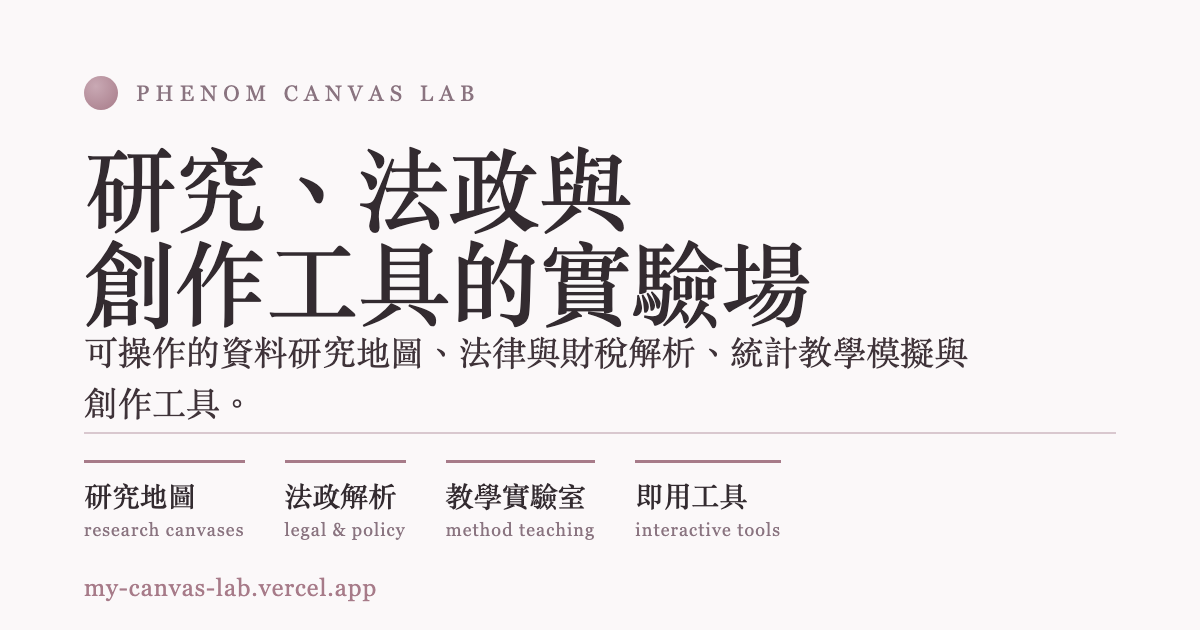
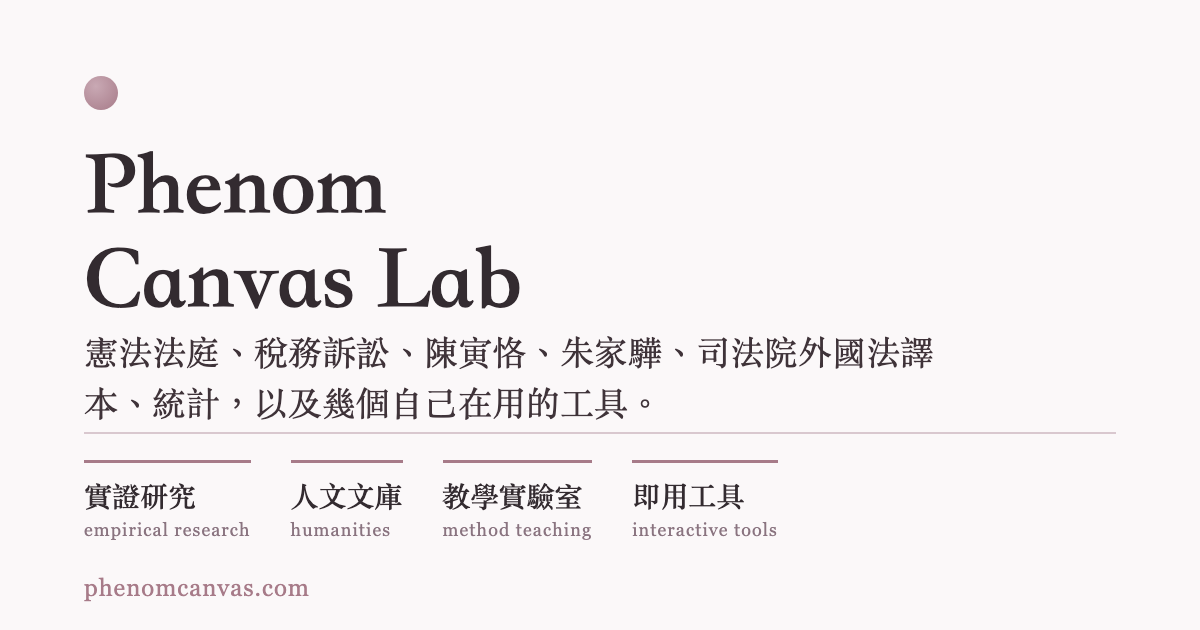
文案：拿掉介紹自己的那套話，站名就只是站名
原本的標題與描述是站在賣東西的位置寫的：把實際內容換成抽象名詞
（研究、法政與創作工具），再用一個空間比喻兜起來（互動實驗場、
資料研究地圖）。改成直接寫裡面有什麼——憲法法庭、稅務訴訟、陳寅恪、
朱家驊、司法院外國法譯本、統計。首頁標題只留 Phenom Canvas Lab，
不解釋；深頁各自有自己的標題，搜尋那邊不受影響。

同一種寫法在 ECFA 的「前世今生與實證研究地圖」、JIRS 的「收攏成可
檢索的地圖」、首頁分區描述裡也有，一併改掉。分享圖重新產生：卡片
上的四個分區早就跟 App.jsx 的實際分區對不上了，順便對齊。

validate:copy 加了五條規則接住這個文體，故意塞違規字串驗過會擋。

另外兩處還指著舊網址的 og:image 與 twitter:image 也改成新域名——上一
個 commit 掃殘留時漏掉了 index.html。

IndexNow 補上等待金鑰檔生效：部署剛結束時 CDN 還沒鋪好，抓不到金鑰
就回 403，第一次跑就是這樣失敗的。

diff --git a/index.html b/index.html
@@ -4,20 +4,20 @@
     <meta charset="UTF-8" />
     <link rel="icon" type="image/svg+xml" href="/phenom-ring.svg" />
     <meta name="viewport" content="width=device-width, initial-scale=1.0" />
-    <meta name="description" content="Phenom Canvas Lab 集合可操作的音樂工具，以及法律、財稅、公共政策的資料研究地圖。" />
+    <meta name="description" content="憲法法庭、稅務訴訟、陳寅恪、朱家驊、司法院外國法譯本、統計，以及幾個自己在用的工具。" />
     <meta name="robots" content="index,follow,max-image-preview:large,max-snippet:-1,max-video-preview:-1" />
     <meta property="og:type" content="website" />
     <meta property="og:locale" content="zh_TW" />
     <meta property="og:site_name" content="Phenom Canvas Lab" />
-    <meta property="og:title" content="Phenom Canvas Lab｜研究、法政與創作工具" />
-    <meta property="og:description" content="研究、法政解析與創作工具的互動實驗場。" />
-    <meta property="og:image" content="https://my-canvas-lab.vercel.app/og-default.png" />
+    <meta property="og:title" content="Phenom Canvas Lab" />
+    <meta property="og:description" content="憲法法庭、稅務訴訟、陳寅恪、朱家驊、司法院外國法譯本、統計，以及幾個自己在用的工具。" />
+    <meta property="og:image" content="https://phenomcanvas.com/og-default.png" />
     <meta property="og:image:width" content="1200" />
     <meta property="og:image:height" content="630" />
-    <meta property="og:image:alt" content="Phenom Canvas Lab — 研究、法政與創作工具的互動實驗場" />
+    <meta property="og:image:alt" content="Phenom Canvas Lab 的分享圖，列出站上各區名稱" />
     <meta name="twitter:card" content="summary_large_image" />
-    <meta name="twitter:image" content="https://my-canvas-lab.vercel.app/og-default.png" />
-    <title>Phenom Canvas Lab｜研究、法政與創作工具</title>
+    <meta name="twitter:image" content="https://phenomcanvas.com/og-default.png" />
+    <title>Phenom Canvas Lab</title>
   </head>
   <body>
     <!--

diff --git a/src/components/SeoHead.jsx b/src/components/SeoHead.jsx
@@ -10,7 +10,7 @@ const SITE_URL = (import.meta.env.VITE_SITE_URL || window.location.origin).repla
 const DEFAULT_OG_IMAGE = `${SITE_URL}/og-default.png`;
 const LOGO = `${SITE_URL}/phenom-ring.svg`;
 const SITE_NAME = 'Phenom Canvas Lab';
-const SITE_DESC = '研究、法政解析與創作工具的互動實驗場。';
+const SITE_DESC = '憲法法庭、稅務訴訟、陳寅恪、朱家驊、司法院外國法譯本、統計，以及幾個自己在用的工具。';
 
 // Publisher/author node, referenced by @id from every page so answer engines
 // resolve one consistent entity for the site rather than an anonymous string.
@@ -55,8 +55,8 @@ export default function SeoHead({ page, itemList }) {
   const url = `${SITE_URL}${pathname === '/' ? '/' : pathname}`;
   const ogImage = page?.image || (pathname === '/' ? DEFAULT_OG_IMAGE : null);
   const metadata = useMemo(() => ({
-    title: page?.title || 'Phenom Canvas Lab｜研究、法政與創作工具',
-    description: page?.description || 'Phenom Canvas Lab 集合可操作的音樂工具，以及法律、財稅、公共政策的資料研究地圖。',
+    title: page?.title || 'Phenom Canvas Lab',
+    description: page?.description || '憲法法庭、稅務訴訟、陳寅恪、朱家驊、司法院外國法譯本、統計，以及幾個自己在用的工具。',
     type: page?.type || 'WebPage',
     indexable: page?.indexable !== false,
     name: page?.name,

diff --git a/src/App.jsx b/src/App.jsx
@@ -214,7 +214,7 @@ const PAGE_META = { // token-exempt: per-page identity chip colors (data, not st
   },
   GovernmentDebt: {
     name: '政府債務地圖',
-    desc: '主權債務、地方融資平台與國際比較研究地圖',
+    desc: '主權債務、地方融資平台與國際比較',
     Icon: Landmark,
     accent: '#c8d8e8',
     accentText: '#305878',
@@ -447,7 +447,7 @@ const GROUPS = [
   { key: 'empirical', label: '實證研究', desc: '自己蒐集原始材料、逐件讀過、可長期延伸的研究工作台' },
   { key: 'corpus', label: '語料・譯庫', desc: '可搜尋的語料庫、譯庫與書目目錄，直達原文' },
   { key: 'humanities', label: '人文文庫', desc: '以人物與文本為軸的重排本與文集' },
-  { key: 'analysis', label: '議題解析', desc: '法律、財稅與制度議題的結構化拆解與現況地圖' },
+  { key: 'analysis', label: '議題解析', desc: '法律、財稅與制度議題的拆解' },
   { key: 'learn', label: '教學實驗室', desc: '方法本身的來歷與限制，配上可以親手轉動的模擬' },
   { key: 'tool', label: '即用工具', desc: '可直接操作的工具：音樂、聲音與設計' },
 ];

diff --git a/src/pages/JirsForeignLaw.jsx b/src/pages/JirsForeignLaw.jsx
@@ -493,7 +493,7 @@ export default function JirsForeignLaw() {
                   <h2 className="text-token-lg font-semibold text-ink">關於這份索引</h2>
                   <p className="text-token-base leading-relaxed text-ink-muted">
                     全文為離線整理後的可讀鏡像。官方入口是 JIRS 電子出版品檢索系統，把每筆報告拆成數十個附檔、只能逐一強制下載，
-                    前面還擋著一層防自動下載的安全檢查，網路上也找不到現成的存檔。這裡把 {摘要.官方報告數} 筆報告、{摘要.檔案總數} 件附檔收攏成可檢索的地圖。
+                    前面還擋著一層防自動下載的安全檢查，網路上也找不到現成的存檔。這裡把 {摘要.官方報告數} 筆報告、{摘要.檔案總數} 件附檔收攏起來，可以檢索。
                   </p>
                   <div>
                     <h2 className="mb-2 text-token-lg font-semibold text-ink">附檔怎麼分類</h2>

diff --git a/src/pages/PaletteLab.jsx b/src/pages/PaletteLab.jsx
@@ -738,7 +738,7 @@ export default function PaletteLab() {
 
             {/* 閱讀區：近白紙面（含所選材質） */}
             <div className="rounded-md border px-5 py-5 sm:px-6" style={{ background: 'var(--pl-paper)', borderColor: 'var(--pl-line)', ...textureStyle }}>
-              <h2 className="font-display text-2xl leading-tight">研究地圖的一頁樣本</h2>
+              <h2 className="font-display text-2xl leading-tight">正文的一頁樣本</h2>
               <p className="mt-2 max-w-xl text-[13px] leading-relaxed" style={{ color: 'var(--pl-ink-muted)' }}>
                 這段是正文密度的段落，坐在近白的紙面上——色彩只出現在周圍的框架、badge 與
                 <a href="#demo" className="underline decoration-1 underline-offset-2" style={{ color: 'var(--pl-accent)' }}>強調色</a>

diff --git a/src/pages/ECFAResearch.jsx b/src/pages/ECFAResearch.jsx
@@ -835,7 +835,7 @@ export default function ECFAResearch() {
               </div>
                 <h1 className="max-w-3xl leading-tight text-[var(--ecfa-heading)]">
                   <span className="font-display text-3xl font-normal sm:text-4xl">ECFA</span>
-                  <span className="ml-3 align-baseline font-sans text-2xl font-semibold sm:text-[2.15rem]">的前世今生與實證研究地圖</span>
+                  <span className="ml-3 align-baseline font-sans text-2xl font-semibold sm:text-[2.15rem]">的來歷與實證研究</span>
                 </h1>
                 <p className="mt-3 max-w-3xl text-token-sm leading-relaxed text-[var(--ecfa-body-text)]">
                   從 WTO 脈絡、江陳會談、協議文本、五個附件、早收清單一路整理到 2024 年中止優惠與商品範圍。

diff --git a/src/pages/TranslationAtlas.jsx b/src/pages/TranslationAtlas.jsx
@@ -155,7 +155,7 @@ export default function TranslationAtlas() {
             翻譯工程總覽
           </h1>
           <p className="mt-3 max-w-2xl text-[13px] leading-relaxed text-[var(--ta-body-text)]">
-            德語法律判決、文學選譯與英文書籍的中文全譯成果地圖。公版或官方文書作品附全文
+            德語法律判決、文學選譯與英文書籍的中文全譯。公版或官方文書作品附全文
             PDF，仍受著作權保護的原作僅列出成品 metadata，不公開全文。
           </p>
         </header>
